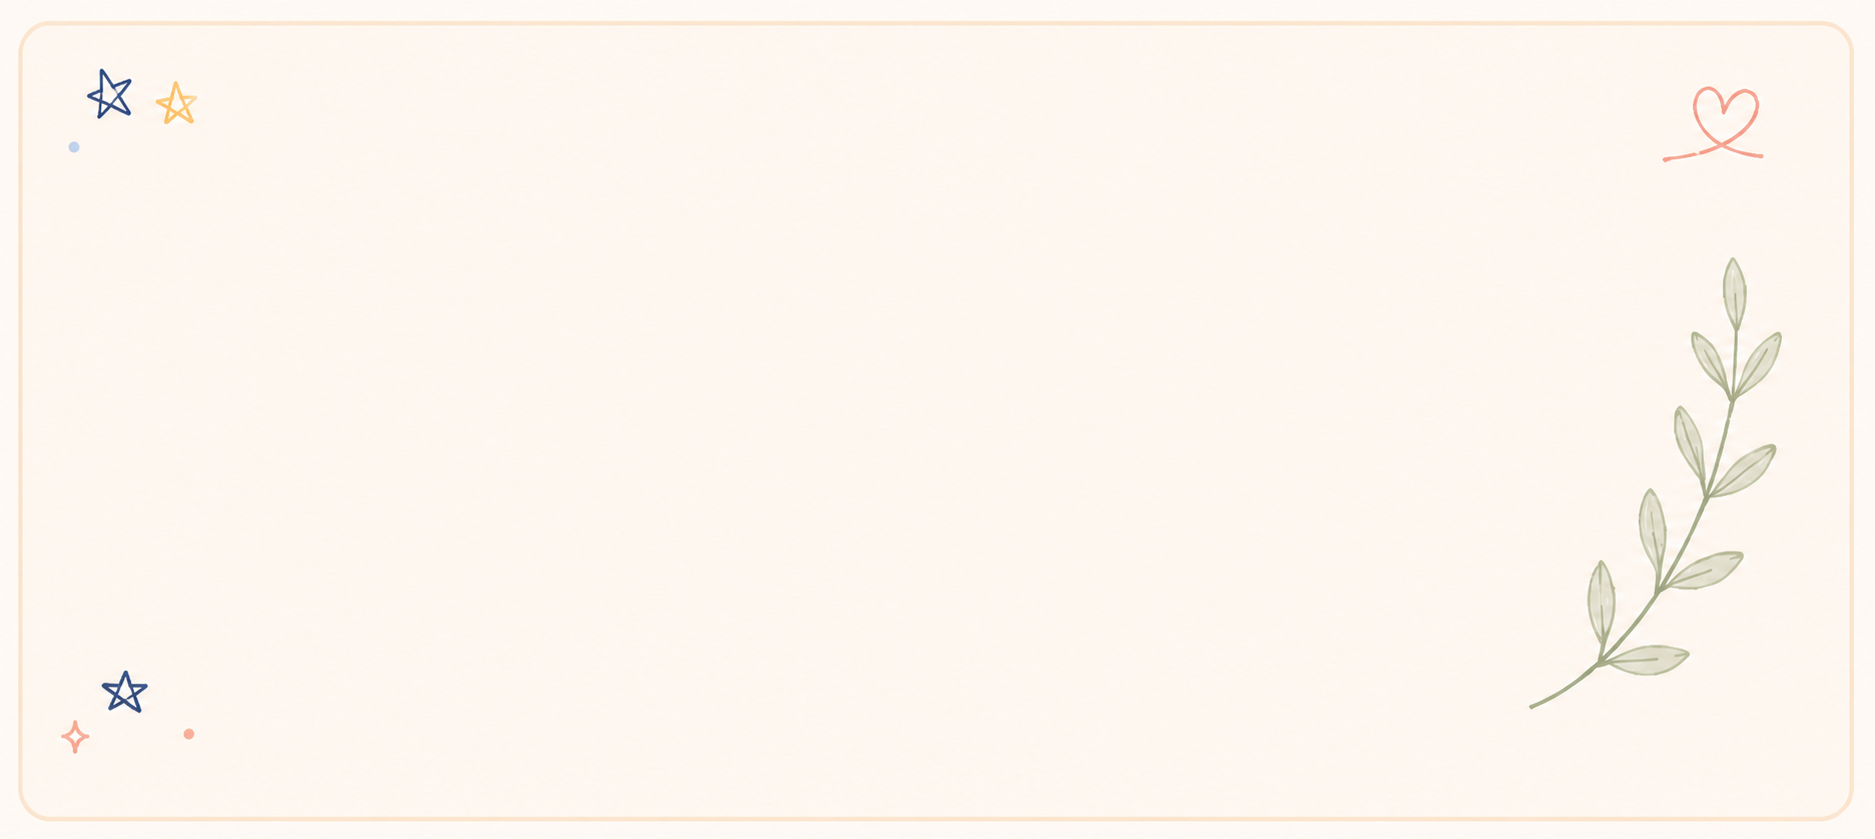
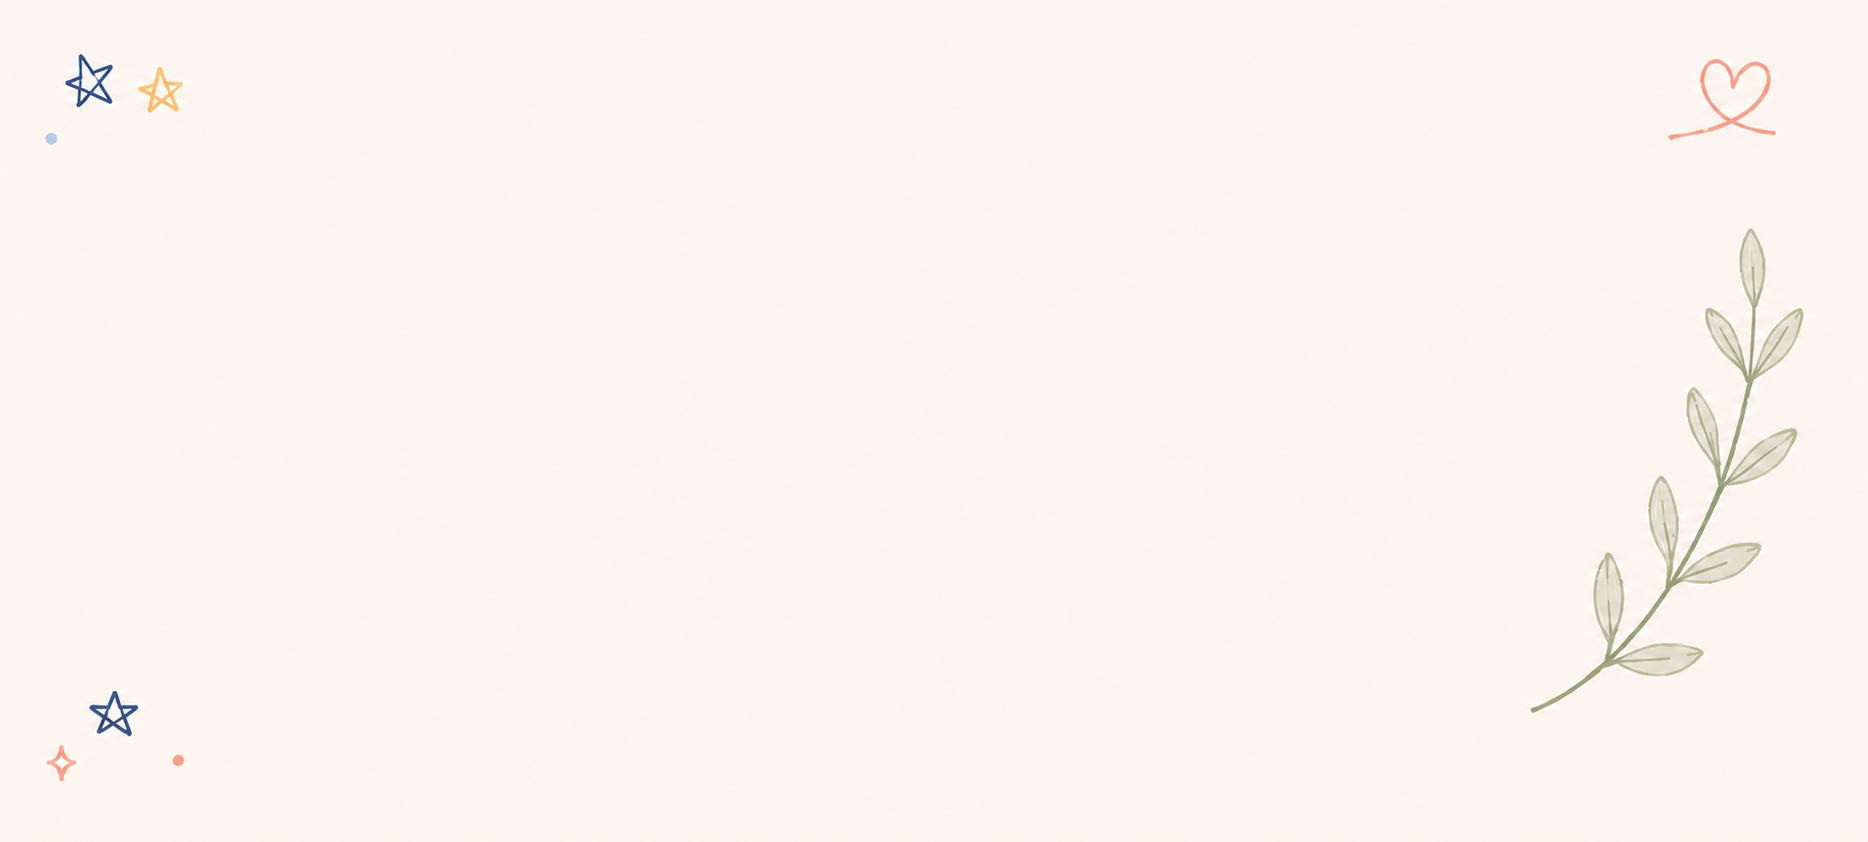
some final changes

diff --git a/src/pages/resume/div1.css b/src/pages/resume/div1.css
@@ -13,13 +13,15 @@
     background-size: contain;
     background-position: center;
     background-repeat: repeat;
+
+    border-bottom: 2px solid rgba(246, 225, 203);
 }
 
 
 
 
 /* ****************** */
-      /* div1_1 */
+/* div1_1 */
 /* ******************* */
 .div1_1 {
     display: flex;
@@ -49,9 +51,9 @@
     border-radius: 6px;
 
     /* soft shadow so it lifts off background */
-    box-shadow: 
-        0px 4px 12px rgba(0,0,0,0.12),
-        inset 0px 0px 0px 2px rgba(255,255,255,0.4);
+    box-shadow:
+        0px 4px 12px rgba(0, 0, 0, 0.12),
+        inset 0px 0px 0px 2px rgba(255, 255, 255, 0.4);
 
     /* keeps image clean */
     object-fit: cover;
@@ -75,9 +77,9 @@
 
 
 .line {
-  width: 200px;
-  height: 2px;
-  margin: 10px auto;
+    width: 200px;
+    height: 2px;
+    margin: 10px auto;
 }
 
 .location {
@@ -92,13 +94,13 @@
 
 .location button {
     max-width: 190px;
-    
+
     background-color: #fdf8f1;
     border: 2px solid #8da0b8;
     border-radius: 6px;
-    box-shadow: 
-        0px 4px 12px rgba(0,0,0,0.12),
-        inset 0px 0px 0px 2px rgba(255,255,255,0.4);
+    box-shadow:
+        0px 4px 12px rgba(0, 0, 0, 0.12),
+        inset 0px 0px 0px 2px rgba(255, 255, 255, 0.4);
 
     cursor: pointer;
 
@@ -137,9 +139,9 @@
     background-color: #fdf8f1;
     border: 2px solid #8da0b8;
     border-radius: 6px;
-    box-shadow: 
-        0px 4px 12px rgba(0,0,0,0.12),
-        inset 0px 0px 0px 2px rgba(255,255,255,0.4);
+    box-shadow:
+        0px 4px 12px rgba(0, 0, 0, 0.12),
+        inset 0px 0px 0px 2px rgba(255, 255, 255, 0.4);
 
     cursor: pointer;
 
@@ -147,4 +149,3 @@
 
     font-size: 1.6rem;
 }
-

diff --git a/src/pages/resume/resume.css b/src/pages/resume/resume.css
@@ -2,19 +2,19 @@
     display: flex;
     flex-direction: column;
 
-    min-height: 2000px;
+    min-height: 2300px;
     height: 100;
 
     background-image:
-        linear-gradient(rgba(0, 0, 0, 0.705), rgb(0, 0, 0)),
-        url("../../assets/project_page_images/girlLovingACuteCat.jpg");
+        linear-gradient(rgba(185, 207, 227, 0.705), rgb(155, 160, 162)),
+        url("../../assets/resume_page_images/resume_back.png");
 
     background-size: contain;
     background-position: center;
     background-size: 300px; /* or any fixed size */
     background-repeat: repeat;
 
-    width: 100vw;
+    width: 100%;
 
     margin: 0px;
 }
@@ -31,7 +31,7 @@
 .container {
     display: flex;
     flex-direction: column;
-    width: 70%;
+    width: 100%;
     max-width: 1100px;
 
     aspect-ratio: 1 / 1.6;

diff --git a/src/pages/resume/div3.css b/src/pages/resume/div3.css
@@ -11,10 +11,15 @@
 .interestStrengths_container {
     display: flex;
     flex-direction: column;
-    justify-content: space-around;
+
+    background-image:
+        url("../../assets/resume_page_images/intrestStrength_background.png");
+
+    background-size: contain;
+    background-position: center;
+    background-repeat: no-repeat;
 
     flex: 4;
-
 }
 
 .languages_container {
@@ -23,6 +28,14 @@
 }
 
 .languages_container {
+
+  background-image:
+        url("../../assets/resume_page_images/languages_background.png");
+
+    background-size: contain;
+    background-position: center;
+    background-repeat: no-repeat;
+
   width: 100%;
   padding: 20px;
 }

diff --git a/src/pages/resume/div2.css b/src/pages/resume/div2.css
@@ -172,6 +172,13 @@
     display: flex;
     flex-direction: column;
     justify-content: space-around;
+
+    background-image:
+        url("../../assets/resume_page_images/funFacts_background.png");
+    background-size: contain;
+    background-position: center;
+    background-repeat: no-repeat;
+
     flex: 2;
     padding: 0px 10px 0px 10px;
 

diff --git a/src/pages/resume/shared.css b/src/pages/resume/shared.css
@@ -21,8 +21,9 @@
 .skills_1_2, 
 .skills_2,
 .funFactsAbtMe_container,
-.strengths_section,
-.interests_section {
+.interestStrengths_container,
+.languages_container {
   border: 2px solid rgba(246, 225, 203);
   border-radius: 10px;
+  margin: 10px;
 }
